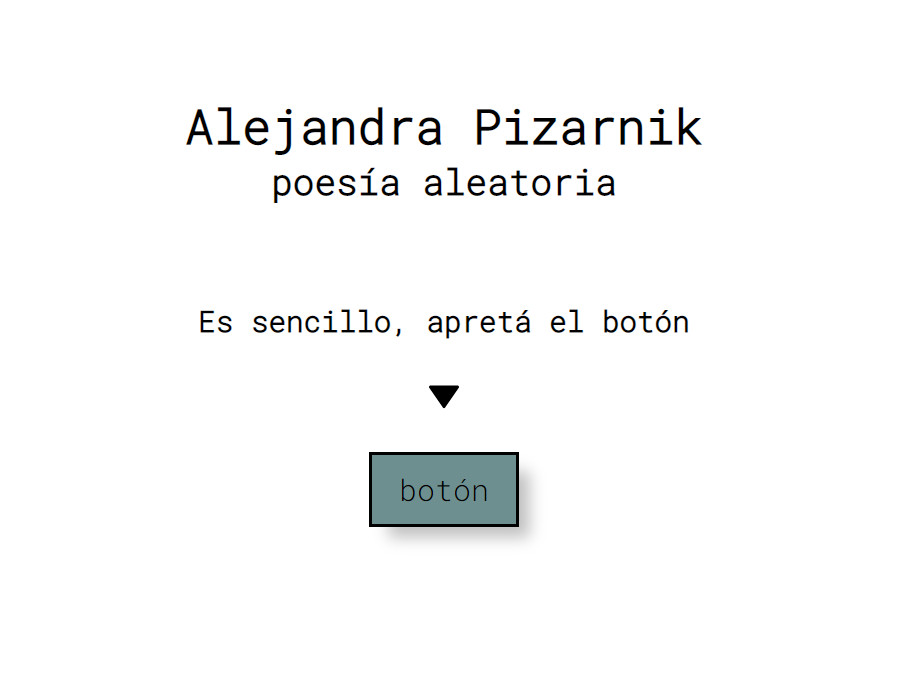
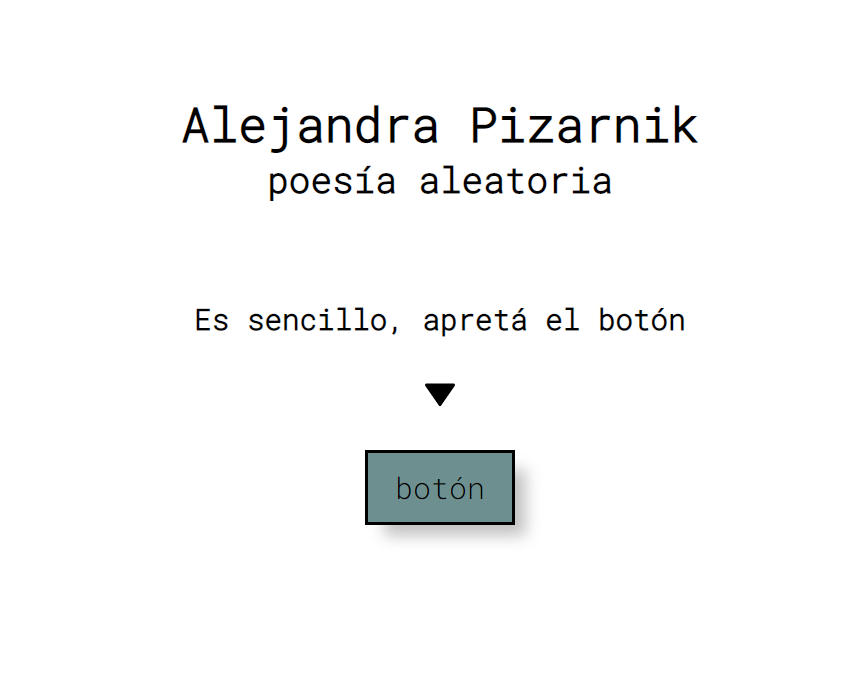
corrijo responsive img, actualizo sobre mi

diff --git a/index.html b/index.html
@@ -98,7 +98,7 @@
                     <article class="article">
                         <a class = "a" href="https://nicoloreto.github.io/textosAleatoriosDeAlejandraPizarnik.githube.io/" title="Poesía aleatoria" target="_blank">
                             <figure class="figure">
-                                <img src="assets/poesia.png" alt="imagen - Posía aleatoria" class="img" loading="lazy">
+                                <img src="assets/poesia-resp.png" alt="imagen - Posía aleatoria" class="img" loading="lazy">
                             </figure>
                             <div class="titulo-descripcion">
                                 <h4 class="h4">Poesía aleatoria</h4>
@@ -112,8 +112,8 @@
                                 <img src="assets/portfolio.png" alt="imagen - Portfolio" class="img" loading="lazy">
                             </figure>
                             <div class="titulo-descripcion" id = "blanco">
-                                <h4 class="h4" id="trabajosCentrado">Porfolio</h4>
-                                <p class="p"></p>
+                                <h4 class="h4" >Porfolio</h4>
+                                <p class="p" id="trabajosCentrado">Estás en este proyecto ahora</p>
                             </div>
                         </a>
                     </article> 
@@ -236,9 +236,9 @@
                 <h2 class="h2">Acerca de</h2>
                     <p class="p">
                         
-                        Comencé a estudiar programación de manera autodidacta a finales de 2021. 
-                        Actualmente estoy cursando la Tecnicatura en Desarrollo Web y Aplicaciones Digitales en el Instituto Superior Politécnico 
-                        de Córdoba (I.S.P.C). </br> 
+                        Comencé a estudiar programación a finales de 2021 a través de cursos online.
+                        Actualmente estoy cursando el segundo año de la Tecnicatura en Desarrollo Web y Aplicaciones Digitales en el Instituto Superior Politécnico 
+                        de Córdoba (I.S.P.C) . </br> 
                         En el enlace a GitHub encontrarán los proyectos en los que estoy trabajando actualmente.</p> 
 
                     <p class="p">
@@ -249,7 +249,8 @@
 
                     </p>
                     <div class="cv">
-                        <a download="Nicolás-Loreto" href="Nicolás-Loreto.pdf" class="a">Descargar CV</a>
+                        <a link="Nicolás-Loreto" href="00-Nicolás-Loreto.pdf" class="a" target="_blank">Ver CV</a>
+                        <a download="Desarrollador Frontend - Nicolás-Loreto" href="00-Nicolás-Loreto.pdf" class="a">Descargar CV</a>
                     </div>
                 <ul class="redessociales">
                     <!--li.li>a.a[href="#" title="Nombre" target="_blank" rel="noopener noreference"]>sgv.sgv-->

diff --git a/estilos.css b/estilos.css
@@ -468,7 +468,9 @@ de ul, es decir el segundo li con etiqueta a*/
     width: 100%;
     /* background: gray; */
     mix-blend-mode:multiply;
-    font-size: 1.3rem;
+    text-transform:uppercase;
+    font-size: .8rem;
+    line-height: 1.2rem
     
 }
 
@@ -479,12 +481,16 @@ de ul, es decir el segundo li con etiqueta a*/
 
 #textoMayor{
     margin-bottom: 4rem;
+    text-transform:uppercase;
+    font-size: .8rem;
+    line-height: 1.2rem
     
 }
 
 #trabajosCentrado{
     text-align: center;
-    margin-top: 11rem;
+    justify-content: center;
+   
 }
 
 .seccion .article:hover .titulo-descripcion{
@@ -684,10 +690,16 @@ un enlace*/
     transition: all .1s linear;
 }
 
+.cv{
+
+    display: flex;
+}
+
 .cv .a{
+    margin: 2rem;
     justify-content: center;
     align-items: center;
-    display: flex;
+    
     margin-top: 4rem;
     font-size: 1.5rem;
     border: 1px solid rgb(255,255,255,.2);
@@ -759,13 +771,14 @@ un enlace*/
         text-align: center;
         justify-content: center;
         align-items: center;
-        font-size: 1rem;
+        font-size: 1.8rem;
         margin-bottom: 3rem;
     }
     .tecnologias .h4{
         margin-bottom: 0rem;
 
     }
+
 
     .tecnologias .grid{
 
@@ -780,8 +793,12 @@ un enlace*/
     .tecnologias .svg{
         width: 4rem;
         height: 4rem;
+    }
 
-}
+    .cv{
+        display: grid;
+    }
+
 }
 
 
